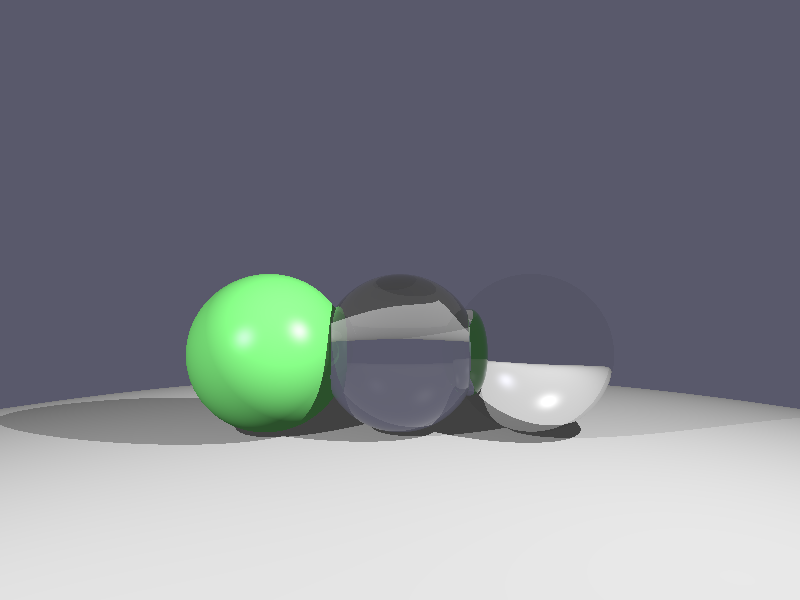
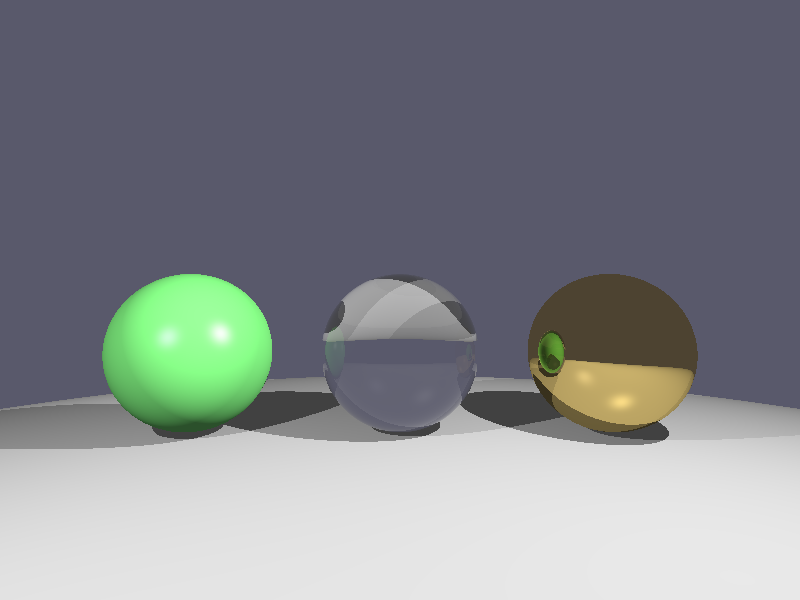
Fix: 修复金属材质算法 + 拉开球体间距
问题反馈（用户 @jiyunzhou）：
1. 三个球部分叠在一起
2. 右边金属球看起来像纯透明材质而不是金属

根本原因：
1. 球心间距 2.5 < 球直径 3.0，导致重叠
2. 金属反射代码只返回 reflectColor * 0.9
   没有乘上金属本身的颜色 metalColor
   结果就是无色镜子，看起来像透明

修复内容：
1. 球心 x 坐标：-2.5, 0, 2.5 → -4.0, 0, 4.0
   现在间距 4.0 > 直径 3.0，完全分离
2. 金属反射改为：
   return (reflectColor * metalColor) * 0.9
   现在金属球会显示金黄色反射

技术说明：
- 金属反射 = 环境反射 × 金属颜色
- 例如：白光反射 × 金黄色 = 金黄色反射
- 这是物理正确的金属渲染方式

Changed region(s): [[0.0, 0.45, 0.875, 0.75]]

diff --git a/2026/02/02-19-refraction-glass-ball/refraction.cpp b/2026/02/02-19-refraction-glass-ball/refraction.cpp
@@ -211,12 +211,19 @@ Vec3 trace(const Ray& ray, const Scene& scene, int depth) {
         return ambient + color;
     }
     else if (hitSphere->material == METAL) {
-        // 镜面反射
+        // 镜面反射（金属）
         Vec3 reflectDir = ray.direction.reflect(normal);
         Ray reflectRay(hitPoint, reflectDir);
         Vec3 reflectColor = trace(reflectRay, scene, depth - 1);
         
-        return reflectColor * 0.9;  // 90% 反射
+        // ✅ 修复：金属反射必须乘上金属本身的颜色（金黄色）
+        // 否则就是无色镜子，看起来像透明材质
+        Vec3 metalColor = hitSphere->color;
+        return Vec3(
+            reflectColor.x * metalColor.x,
+            reflectColor.y * metalColor.y,
+            reflectColor.z * metalColor.z
+        ) * 0.9;  // 90% 能量保留
     }
     else if (hitSphere->material == GLASS) {
         // 玻璃材质：反射 + 折射
@@ -269,9 +276,10 @@ int main() {
     Scene scene;
     
     // 添加球体：左（漫反射绿球）、中（玻璃球）、右（金属球）
-    scene.addSphere(Sphere(Vec3(-2.5, 0, -10), 1.5, Vec3(0.2, 0.8, 0.2), DIFFUSE));
+    // 球心间距改为 4.0，避免重叠（半径1.5，间距至少要 > 3.0）
+    scene.addSphere(Sphere(Vec3(-4.0, 0, -10), 1.5, Vec3(0.2, 0.8, 0.2), DIFFUSE));
     scene.addSphere(Sphere(Vec3(0, 0, -10), 1.5, Vec3(1.0, 1.0, 1.0), GLASS, 1.5));  // 折射率1.5
-    scene.addSphere(Sphere(Vec3(2.5, 0, -10), 1.5, Vec3(0.8, 0.6, 0.2), METAL));
+    scene.addSphere(Sphere(Vec3(4.0, 0, -10), 1.5, Vec3(0.8, 0.6, 0.2), METAL));
     
     // 地板（大球）
     scene.addSphere(Sphere(Vec3(0, -101.5, -10), 100, Vec3(0.5, 0.5, 0.5), DIFFUSE));
